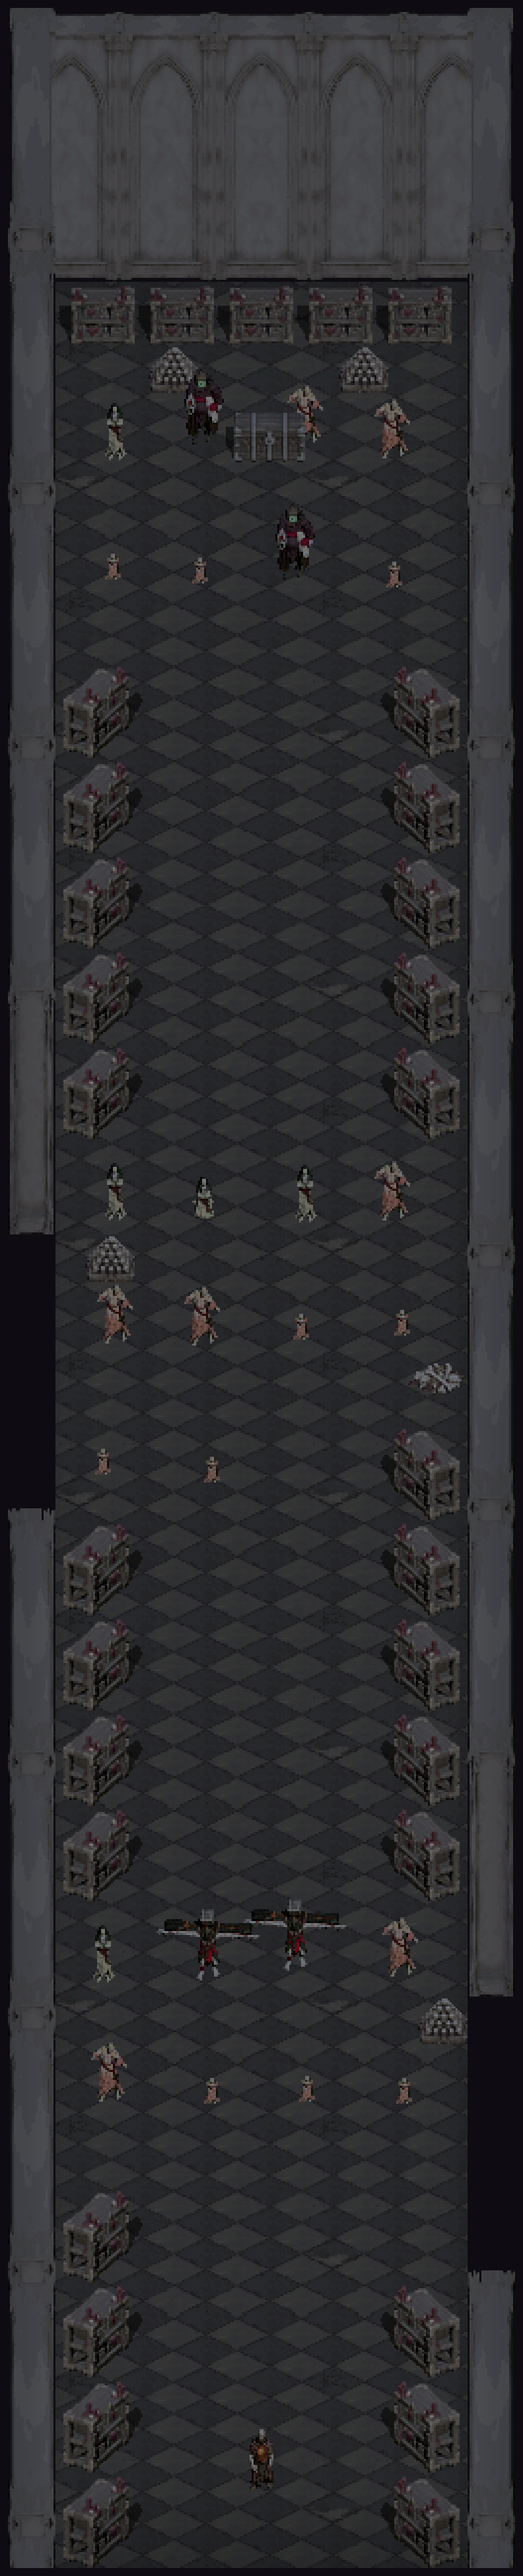
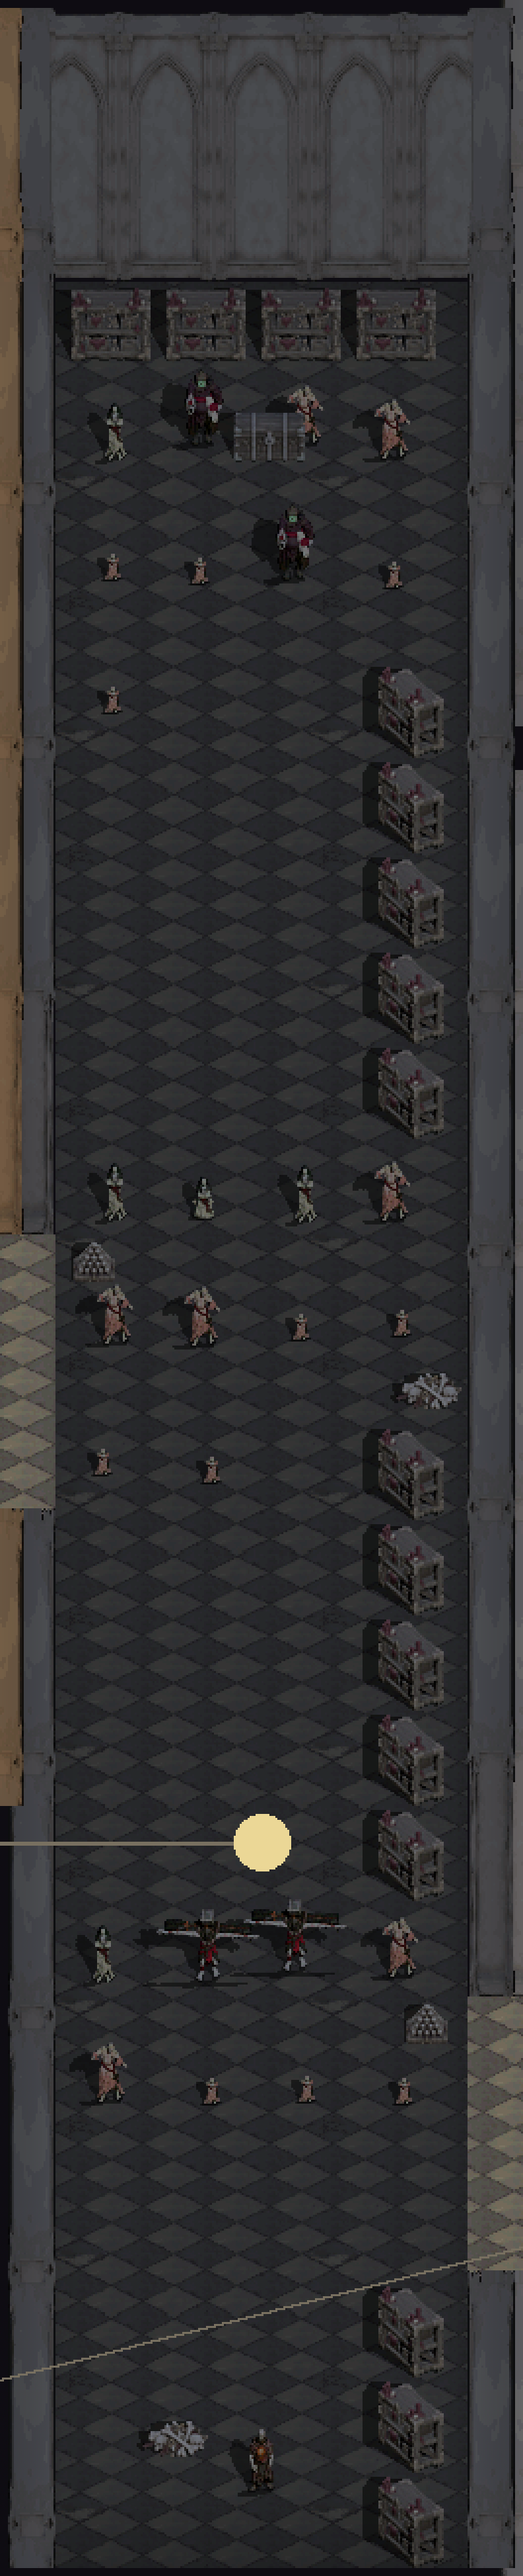
feat(props): escala C de calaveras, montón de huesos y estantes del osario
Anchos 21/34/40 px; muro de fondo de la sala 9 a 4 estantes cada 48 px
(los props no comparten tiles y con 40 px se perdían alternos). Póster rehecho.

diff --git a/tools/poster/salas/sala_09.py b/tools/poster/salas/sala_09.py
@@ -12,7 +12,7 @@ DROP = ['alambre', 'banco_roto', 'banco_volcado', 'sacos', 'sacos_b', 'sacos_rem
 # izquierdo) en tramos continuos que solo se abren donde salen los enemigos (filas de y 70..228 de cada tramo) y en las puertas;
 # al fondo (k2) un muro de nichos de frente tras el cofre. Calaveras y huesos solo de remate, al pie de los estantes.
 def _osario():
-    out = [("osario_estante", 2, x, 0) for x in (0, 40, 80, 120, 160)]   # muro de nichos de lado a lado tras el cofre
+    out = [("osario_estante", 2, x, 0) for x in (4, 52, 100, 148)]   # muro de nichos tras el cofre: cada 48 px (los props no comparten tiles, sombra incluida)
     for k in range(3):
         # estantes pegados cada 48 px (los props no comparten tiles); su pie (y+34..y+48) queda fuera de las filas de enemigos
         for y in ((192, 240, 288, 336) if k == 2 else (0, 192, 240, 288, 336)):
